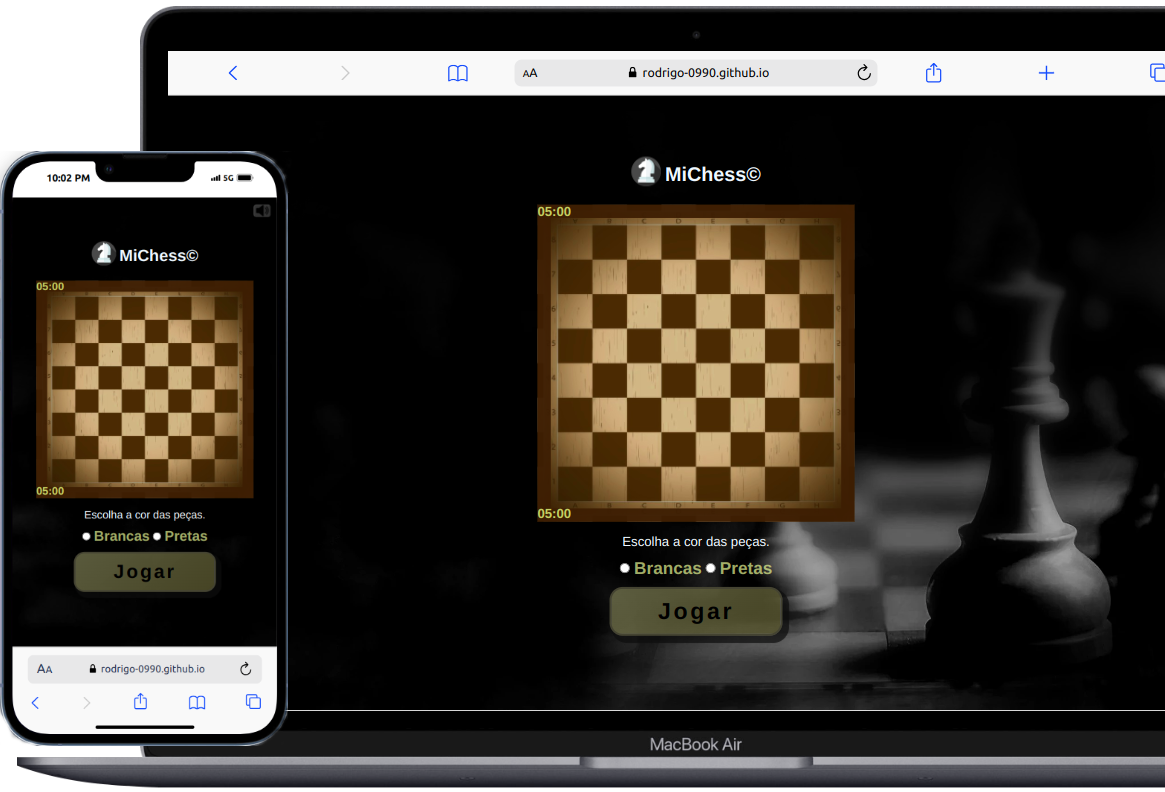
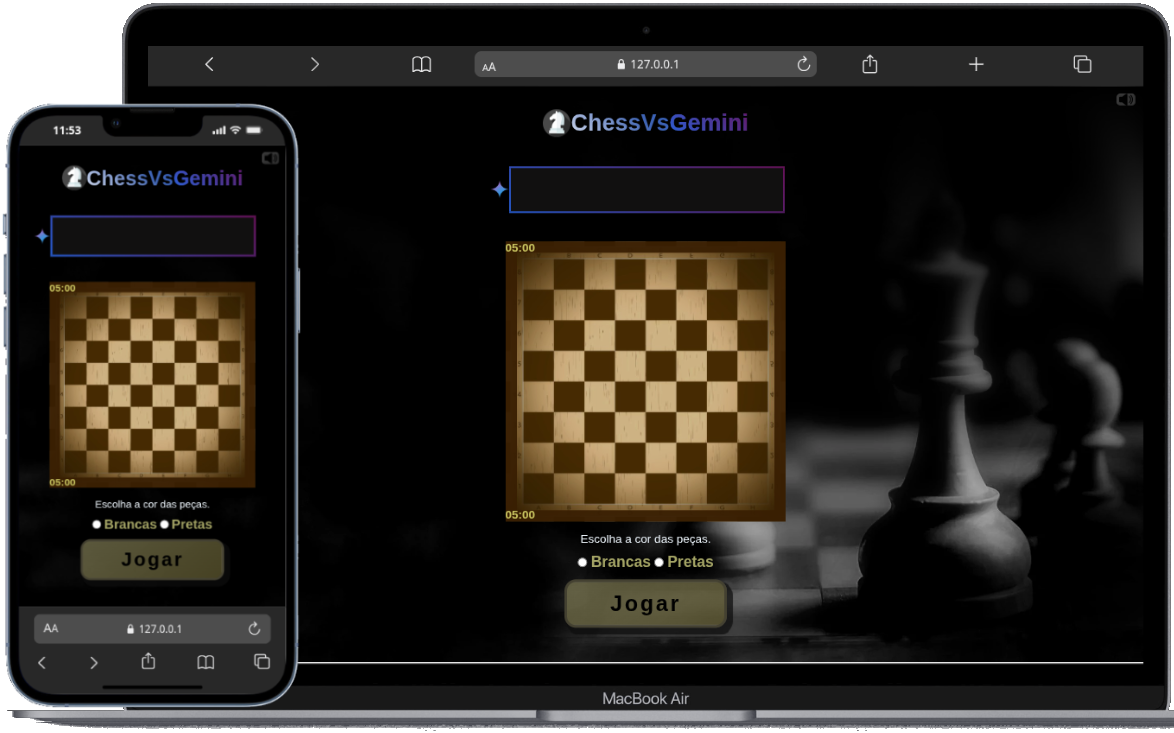
mudança na apresentação de projetos

diff --git a/index.html b/index.html
@@ -241,10 +241,8 @@
                             <p>E-commerce</p>
                         </div>
                         <div class="description-project">
-                            <p> Sistema em desenvolvido utilizando ReactJs para construção de componentes, Redux
-                                para armazenamento de estado, o framework Express.js para requisições à API dos Correios
-                                para
-                                cálculo de fretes, e Api do Bing ERP para gerenciamento de estoque.</p>
+                            <p> Sistema em desenvolvimento utilizando ReactJs para construção de componentes reutilizáveis, 
+                                ligado à API dos Correios para cálculo de fretes, e Api do Bing ERP para gerenciamento de estoque.</p>
                         </div>
                     </div>
                     <div class="buttons-project">
@@ -298,13 +296,12 @@
                         </div>
                         <div class="wrapper-description-project">
                             <div class="title-project">
-                                <h2>Chess</h2>
+                                <h2>ChessVSGemini</h2>
                                 <p>Jogo de xadrez</p>
                             </div>
                             <div class="description-project">
-                                <p> Projeto pessoal desenvolvido em JavaScript. Algumas regras de xeque-mate ainda estão
-                                    sendo
-                                    implementadas, mas ja é possivel brincar com o jogo.
+                                <p> Jogue xadrez contra o Gemini!!! O jogo faz requisições à API da Inteligencia Artificial da Google,
+                                    respondendo com o lance e explicando seus movimentos. O projeto foi desenvolvido em JavaScript.
                                 </p>
                             </div>
                         </div>
